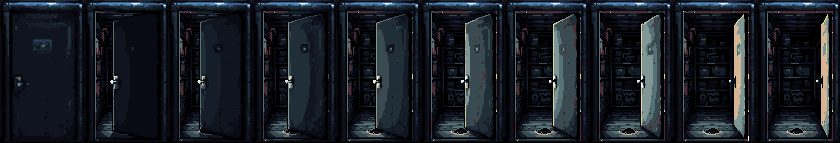
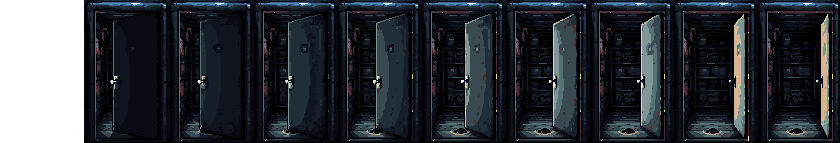
modified end game screen and swapped arrow sprite

Changed region(s): [[0.0, 0.0, 0.1238, 1.0]]

diff --git a/src/entities/WinScreen.ts b/src/entities/WinScreen.ts
@@ -1,8 +1,22 @@
-import { Container, Graphics, Text } from "pixi.js";
+import { AnimatedSprite, Assets, Container, Graphics, Rectangle, Text, Texture } from "pixi.js";
 
 const REVEAL_DELAY_TICKS = 3 * 120; // 3s after the win pose settles before the fade begins (fixed 120Hz logic rate — see Game.ts)
 const FADE_TICKS = 1 * 120; // 1s fade duration
 const FADE_ALPHA = 0.7;
+
+const DANCE_PATH = "/assets/tvman-ani-dance.png";
+const DANCE_FRAME_W = 128;
+const DANCE_FRAME_H = 128;
+const DANCE_FRAME_COUNT = 29;
+const DANCE_ANIM_SPEED = 0.25;
+
+function cropFrames(sheet: Texture, count: number, fw: number, fh: number): Texture[] {
+  return Array.from(
+    { length: count },
+    (_, i) =>
+      new Texture({ source: sheet.source, frame: new Rectangle(i * fw, 0, fw, fh) }),
+  );
+}
 
 export interface Achievements {
   medal: boolean;
@@ -28,6 +42,7 @@ export class WinScreen {
   private grenadeLine: Text;
   private enemiesLine: Text;
   private restart: Text;
+  private danceSprite: AnimatedSprite;
   private phase: Phase = "waiting";
   private timer = 0;
 
@@ -81,6 +96,17 @@ export class WinScreen {
     this.restart.position.set(cx, screenH / 2 + 90);
     this.restart.visible = false;
     this.container.addChild(this.restart);
+
+    const danceSheet = Assets.get<Texture>(DANCE_PATH);
+    const danceFrames = cropFrames(danceSheet, DANCE_FRAME_COUNT, DANCE_FRAME_W, DANCE_FRAME_H);
+    this.danceSprite = new AnimatedSprite(danceFrames);
+    this.danceSprite.anchor.set(0.5, 1);
+    this.danceSprite.animationSpeed = DANCE_ANIM_SPEED;
+    this.danceSprite.loop = true;
+    this.danceSprite.position.set(cx, screenH / 2 + 90 + 160);
+    this.danceSprite.visible = false;
+    this.danceSprite.play();
+    this.container.addChild(this.danceSprite);
   }
 
   update(winAnimDone: boolean, achievements: Achievements) {
@@ -106,11 +132,16 @@ export class WinScreen {
           achievements.enemiesDown,
         );
 
+        const allDone =
+          achievements.medal && achievements.grenade && achievements.enemiesDown;
+
+        this.title.text = allDone ? "MASTERY" : "WELL DONE!";
         this.title.visible = true;
         this.medalLine.visible = true;
         this.grenadeLine.visible = true;
         this.enemiesLine.visible = true;
         this.restart.visible = true;
+        this.danceSprite.visible = allDone;
         this.phase = "done";
       }
     }

diff --git a/src/entities/IntroSequence.ts b/src/entities/IntroSequence.ts
@@ -8,15 +8,15 @@ const SPRINT_FRAME_COUNT = 13;
 const SPRINT_ANIM_SPEED = 0.35;
 const SPRINT_SPEED = 4; // px per logic tick (fixed 120Hz sim rate — see Game.ts)
 
-const ARROW_PATH = "/assets/arrow.png";
-const ARROW_FRAME_SIZE = 64;
-const ARROW_FRAME_COUNT = 21;
+const ARROW_PATH = "/assets/pointing-hand.png";
+const ARROW_FRAME_W = 95;
+const ARROW_FRAME_H = 47;
+const ARROW_FRAME_COUNT = 25;
 const ARROW_ANIM_SPEED = 0.2; // tweak so one playthrough is however long you want it on screen
-const ARROW_INSET_X = 100; // px from the right edge
-const ARROW_INSET_Y = 150; // px from the top edge
-// Assumes the source art faces right by default (common convention) — this
-// rotates it to point left, toward platform #1/the ladder. Tweak freely.
-const ARROW_ROTATION = Math.PI;
+const ARROW_INSET_X = 120; // px from the right edge
+const ARROW_INSET_Y = 140; // px from the top edge
+// pointing-hand.png already faces right by default — no rotation needed.
+const ARROW_ROTATION = 0;
 
 const FADE_TICKS = 3 * 120; // 3s at the fixed 120Hz logic rate
 
@@ -71,7 +71,7 @@ export class IntroSequence {
     this.container.addChild(this.sprintSprite);
 
     const arrowSheet = Assets.get<Texture>(ARROW_PATH);
-    const arrowFrames = cropFrames(arrowSheet, ARROW_FRAME_COUNT, ARROW_FRAME_SIZE, ARROW_FRAME_SIZE);
+    const arrowFrames = cropFrames(arrowSheet, ARROW_FRAME_COUNT, ARROW_FRAME_W, ARROW_FRAME_H);
     this.arrow = new AnimatedSprite(arrowFrames);
     this.arrow.anchor.set(0.5, 0.5);
     this.arrow.animationSpeed = ARROW_ANIM_SPEED;

diff --git a/src/scenes/GameScene.ts b/src/scenes/GameScene.ts
@@ -148,7 +148,7 @@ export class GameScene {
     const door2Light = new DoorLight(43, 9);
     this.container.addChild(door2Light.container);
 
-    const door2 = new Door(55, 53, {
+    const door2 = new Door(55, 52, {
       path: "/assets/door-02-ani-open.png",
       frameW: 84,
       frameH: 143,
@@ -223,7 +223,10 @@ export class GameScene {
       this.intro.update(dt);
       if (this.intro.hasControl) this.player.container.visible = true;
       if (this.intro.finished) {
-        this.container.removeChild(this.intro.container, this.intro.fadeContainer);
+        this.container.removeChild(
+          this.intro.container,
+          this.intro.fadeContainer,
+        );
         this.introDone = true;
       }
     }

diff --git a/src/main.ts b/src/main.ts
@@ -49,7 +49,7 @@ const TEXTURE_URLS = [
   "/assets/medal_static_icon.png",
   "/assets/music-toggle.png",
   "/assets/player-ani-sprint.png",
-  "/assets/arrow.png",
+  "/assets/pointing-hand.png",
   "/assets/door-02-ani-open.png",
   "/assets/door-02-static-light.png",
   "/assets/keypad_ani_locked.png",
@@ -58,6 +58,7 @@ const TEXTURE_URLS = [
   "/assets/billboard.png",
   "/assets/player-ani-winning.png",
   "/assets/foreground-static-01.png",
+  "/assets/tvman-ani-dance.png",
   "/assets/start-button-static.png",
   "https://pixijs.com/assets/spritesheet/mc.json",
 ];
